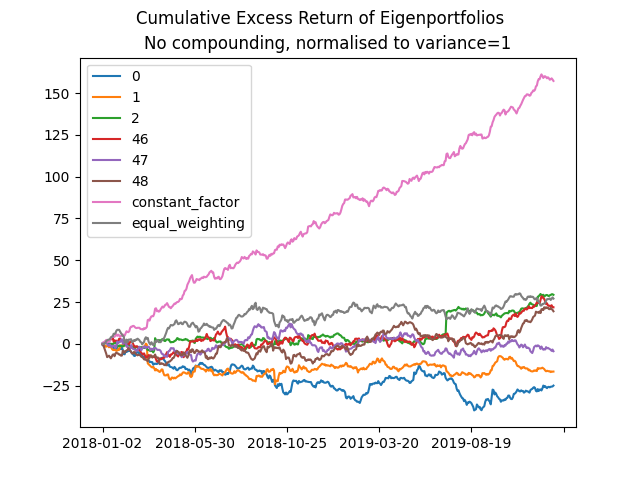
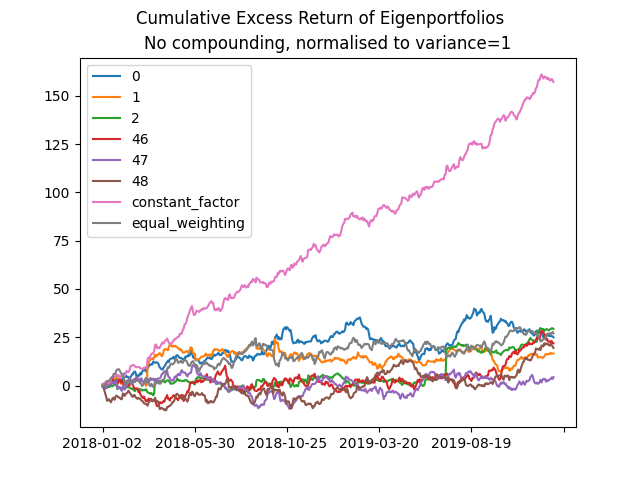
Formatting fixes

diff --git a/src/demo.py b/src/demo.py
@@ -60,7 +60,7 @@ def demo_eigenportfolios():
     betas, premia = fama_macbeth(returns, risk_factors)
     premia_subset = premia.T[[*premia.T.columns[:3],*premia.T.columns[-5:]]]
 
-    (premia_subset/premia_subset.std()).cumsum().plot()
+    (np.sign(premia_subset.mean())*premia_subset/premia_subset.std()).cumsum().plot()
     plt.suptitle('Cumulative Excess Return of Eigenportfolios')
     plt.title('No compounding, normalised to variance=1')
     plt.savefig('../output/eigenportfolios.png')
@@ -99,7 +99,7 @@ def demo_features():
 
     betas, premia = fama_macbeth(returns, risk_factors)
 
-    (premia.T/premia.T.std()).cumsum().plot()
+    (np.sign(premia.T.mean())*premia.T/premia.T.std()).cumsum().plot()
     plt.suptitle('Cumulative Excess Return of Feature-Based Risk Factors')
     plt.title('No compounding, normalised to variance=1')
     plt.savefig('../output/features.png')

diff --git a/README.md b/README.md
@@ -1,11 +1,12 @@
 # Fama MacBeth Regression
-Demo examining different choices of risk factors:
+Demo examining different choices of risk factors.
+
 1. Eigenportfolios
+
 ![Eigenportfolios](https://github.com/odenpetersen/fama-macbeth-regression/blob/main/output/eigenportfolios.png?raw=true)
-2. Microstructural features from the previous day, alongside with the first eigenportfolio
+2. Microstructural features from the previous day, along with the first eigenportfolio
+
 ![Microstructural features](https://github.com/odenpetersen/fama-macbeth-regression/blob/main/output/features.png?raw=true)
-
-
 
 # Data Source
 Dataset is NIFTY50 from [Kaggle](https://www.kaggle.com/datasets/rohanrao/nifty50-stock-market-data/data) (version 15, as at 2024-05-05).
